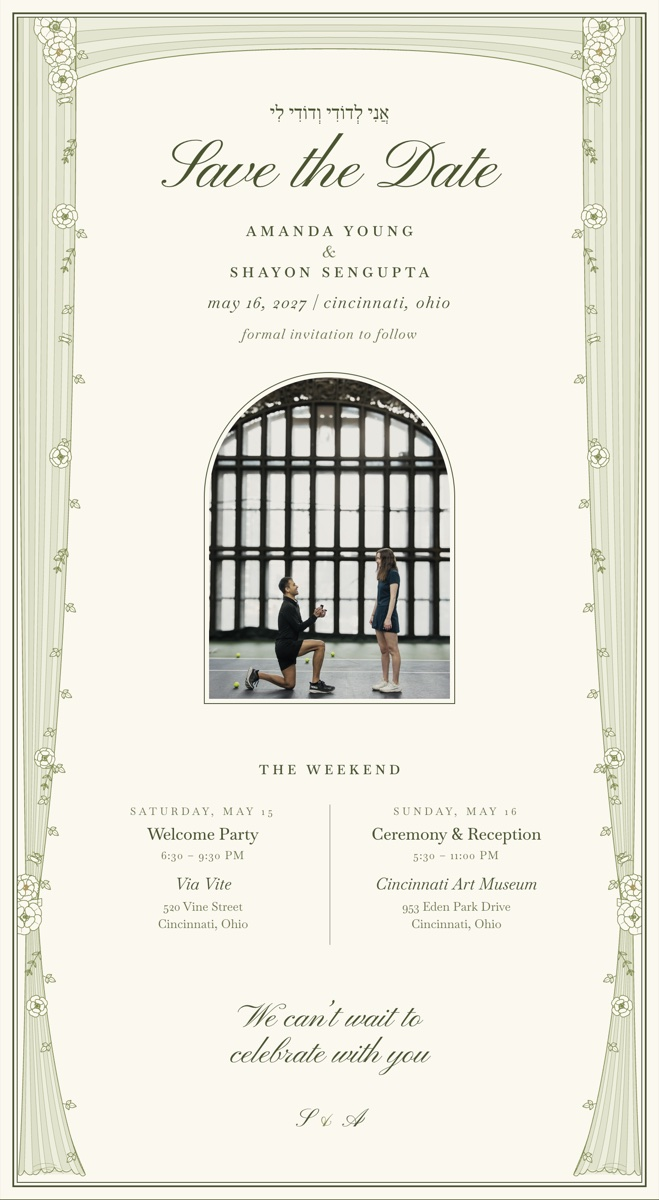
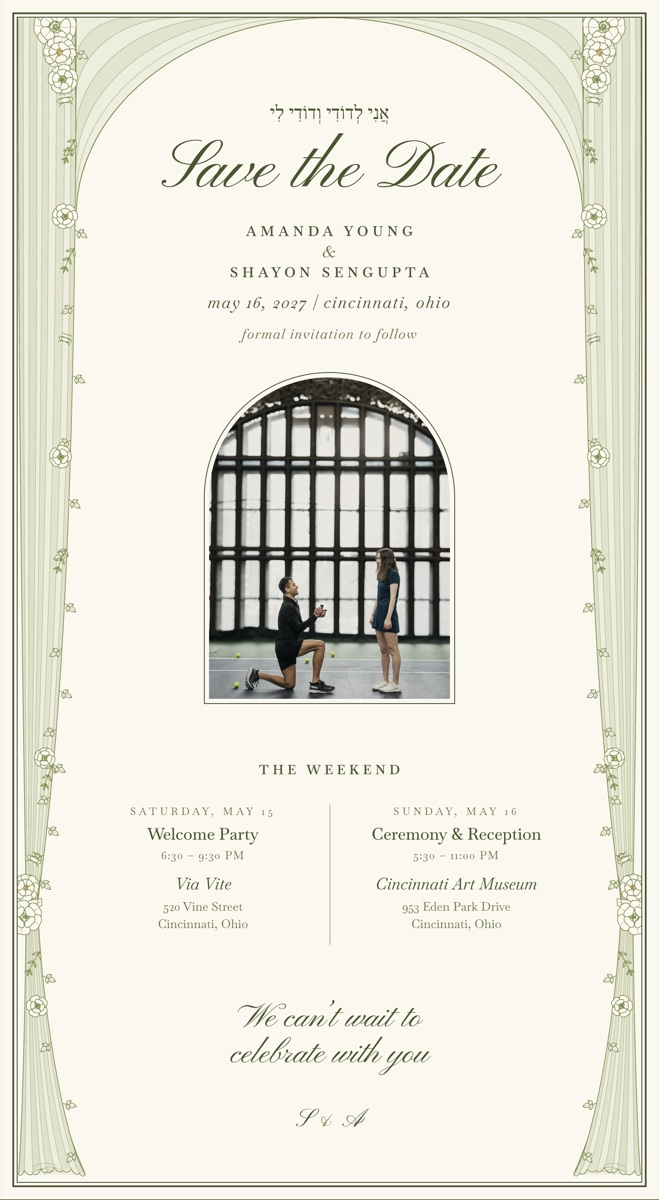
Curtains meet at the top centre in a round arch
- Replace the swag band with the curtains' own tops: from each side curtain's
  inner edge the fabric sweeps in to meet at the top centre (as in the
  satin-drapery reference), leaving a round-arch opening
- script.js spans it exactly between the curtains' inner edges at any size
- Re-render share images

Changed region(s): [[0.091, 0.0, 0.9105, 0.1542]]

diff --git a/index.html b/index.html
@@ -13,19 +13,19 @@
 <meta property="og:type" content="website" />
 <meta property="og:url" content="https://shayon297.github.io/save-the-date/" />
 <meta property="og:site_name" content="Shayon &amp; Amanda" />
-<meta property="og:image" content="https://shayon297.github.io/save-the-date/assets/og.jpg?v=9" />
+<meta property="og:image" content="https://shayon297.github.io/save-the-date/assets/og.jpg?v=10" />
 <meta property="og:image:width" content="1200" />
 <meta property="og:image:height" content="630" />
 <meta property="og:image:alt" content="Save the Date — Shayon Sengupta and Amanda Young, May 16, 2027, Cincinnati, Ohio. Formal invitation to follow." />
 <meta name="twitter:card" content="summary_large_image" />
 <meta name="twitter:title" content="Save the Date — Shayon &amp; Amanda" />
 <meta name="twitter:description" content="Sunday, May 16, 2027 · Cincinnati Art Museum · Cincinnati, Ohio" />
-<meta name="twitter:image" content="https://shayon297.github.io/save-the-date/assets/og.jpg?v=9" />
+<meta name="twitter:image" content="https://shayon297.github.io/save-the-date/assets/og.jpg?v=10" />
 
 <link rel="preconnect" href="https://fonts.googleapis.com">
 <link rel="preconnect" href="https://fonts.gstatic.com" crossorigin>
 <link href="https://fonts.googleapis.com/css2?family=Baskervville:ital,wght@0,400;0,500;0,600;1,400&family=Frank+Ruhl+Libre:wght@400;500&family=Pinyon+Script&display=swap" rel="stylesheet">
-<link rel="stylesheet" href="styles.css?v=39" />
+<link rel="stylesheet" href="styles.css?v=41" />
 <script>
   // ?preview=email / ?preview=og switch the page into fixed layouts used to render the share images
   var pv = new URLSearchParams(location.search).get("preview");
@@ -180,6 +180,6 @@
   </article>
 </main>
 
-<script src="script.js?v=13"></script>
+<script src="script.js?v=14"></script>
 </body>
 </html>

diff --git a/styles.css b/styles.css
@@ -150,16 +150,18 @@ body{
   display: block;
   pointer-events: none;
 }
-/* swag across the top joining the two drapes (assets/swag.svg stretches to the card width) */
+/* the curtains' tops, sweeping in to meet at the centre (assets/swag.svg). It spans exactly
+   between the side curtains' inner edges: script.js measures those into --drape-in. */
 .swag{
   position: absolute;
-  top: var(--hang); left: var(--hang); right: var(--hang);
-  width: calc(100% - 2 * var(--hang));
-  height: 120px;            /* full depth at the sides; the middle dips to ~0.3 of this */
+  top: var(--hang);
+  left: calc(var(--hang) + var(--drape-in, 90px));
+  width: calc(100% - 2 * (var(--hang) + var(--drape-in, 90px)));   /* an img ignores right: set the width */
+  height: 230px;            /* where the arch meets the side curtains */
   z-index: 0;
   pointer-events: none;
 }
-@media (max-width: 480px){ .swag{ height: 70px; } }
+@media (max-width: 480px){ .swag{ height: 74px; } }
 .drape-left{ left: var(--hang); }
 .drape-right{ right: var(--hang); transform: scaleX(-1); }
 .drape-side img{ display: block; height: 100%; width: auto; }

diff --git a/script.js b/script.js
@@ -24,6 +24,21 @@
   tick();
   setInterval(tick, 60000);
 
+  // ---- curtain tops: span the swag between the side curtains' inner edges ----
+  // The drapes keep their proportions, so their width follows the card's height.
+  // Their fabric's inner edge sits at a fixed fraction of the image width (see tools-flora.py).
+  var drapeImg = document.querySelector(".drape-left img");
+  var card = document.querySelector(".card");
+  function fitSwag() {
+    if (!drapeImg || !card) return;
+    var narrow = (drapeImg.currentSrc || drapeImg.src).indexOf("narrow") !== -1;
+    var edge = narrow ? 46.5 / 84 : 86.5 / 160;
+    card.style.setProperty("--drape-in", (drapeImg.getBoundingClientRect().width * edge) + "px");
+  }
+  if (drapeImg) drapeImg.addEventListener("load", fitSwag);
+  window.addEventListener("resize", fitSwag);
+  fitSwag();
+
   // ---- add-to-calendar ----
   // Each button reveals two links: a static .ics file (assets/*.ics; iPhone and Mac open it
   // straight into Calendar, Outlook imports it) and a Google Calendar link (Android, Gmail).

diff --git a/email.html b/email.html
@@ -22,7 +22,7 @@
         <tr>
           <td align="center" style="padding:0;">
             <a href="https://shayon297.github.io/save-the-date/" style="text-decoration:none;">
-              <img src="https://shayon297.github.io/save-the-date/assets/card-email.jpg?v=7" width="600" alt="Save the Date — Shayon Sengupta and Amanda Young, Sunday, May 16, 2027, Cincinnati Art Museum" style="display:block;width:100%;max-width:600px;height:auto;border:0;box-shadow:0 18px 40px -22px rgba(0,0,0,0.45);" />
+              <img src="https://shayon297.github.io/save-the-date/assets/card-email.jpg?v=8" width="600" alt="Save the Date — Shayon Sengupta and Amanda Young, Sunday, May 16, 2027, Cincinnati Art Museum" style="display:block;width:100%;max-width:600px;height:auto;border:0;box-shadow:0 18px 40px -22px rgba(0,0,0,0.45);" />
             </a>
           </td>
         </tr>

diff --git a/tools-flora.py b/tools-flora.py
@@ -532,35 +532,43 @@ def tall_drape(W, H, w, tie_frac, hem_pad, k, seed):
 
 
 def swag(W=1000, H=100):
-    """One fabric swag across the top of the card, joining the two drapes: shallow in
-    the middle, curving down at each side into the curtains, like the top of a
-    theatre curtain. Nested folds follow the same curve. Stretched to the card's
-    width (preserveAspectRatio none; strokes don't scale)."""
+    """The top of the two curtains: from each side curtain's inner edge the fabric
+    sweeps up and across to meet the other at the top centre, so the opening between
+    them is a round arch (as in the satin-drapery reference). Folds are nested arches
+    pulled toward each corner. Spans exactly between the side curtains' inner edges
+    (script.js sets that) and stretches to fit (preserveAspectRatio none)."""
     F = Flora(11)
+    K = 0.5523                            # cubic approximation of a quarter ellipse
+    cx = W / 2
 
-    def edge(side_y, mid_y):
-        """Bottom edge from the left side down at side_y, rising to mid_y in the middle."""
-        return (f"M0 {f(side_y)}C{f(W * 0.07)} {f(mid_y + (side_y - mid_y) * 0.25)} {f(W * 0.22)} {f(mid_y)} {f(W / 2)} {f(mid_y)}"
-                f"C{f(W * 0.78)} {f(mid_y)} {f(W * 0.93)} {f(mid_y + (side_y - mid_y) * 0.25)} {f(W)} {f(side_y)}")
+    def left(k):                          # quarter arch from (k*cx, 0) down to (0, k*H)
+        a, b = k * cx, k * H
+        return f"M{f(a)} 0C{f(a * (1 - K))} 0 0 {f(b * (1 - K))} 0 {f(b)}"
 
-    hem_side, hem_mid = H, H * 0.3
-    # fabric: top edge, down the right side, then the hem traced right to left
-    F.path(f"M0 0L{f(W)} 0L{f(W)} {f(hem_side)}" + _reverse_edge(W, hem_side, hem_mid) + "Z", "fab")
-    folds = [(0.22, 0.07), (0.42, 0.13), (0.62, 0.19), (0.82, 0.25)]   # (depth at the sides, depth in the middle) / H
-    for j, (sd, md) in enumerate(folds):
-        if j % 2 == 0:                    # shade alternate bands
-            nd, nm = (folds[j + 1] if j + 1 < len(folds) else (1.0, 0.3))
-            F.path(edge(sd * H, md * H) + f"L{f(W)} {f(nd * H)}" + _reverse_edge(W, nd * H, nm * H) + "Z", "fabd")
-        F.path(edge(sd * H, md * H), "d2")
-    F.path(edge(hem_side, hem_mid), "d")
+    def right(k):                         # mirror image, from (W - k*cx, 0) down to (W, k*H)
+        a, b = k * cx, k * H
+        return f"M{f(W - a)} 0C{f(W - a * (1 - K))} 0 {f(W)} {f(b * (1 - K))} {f(W)} {f(b)}"
+
+    # fabric: everything above the arch whose apex is the top centre
+    F.path(f"M0 0L{f(W)} 0L{f(W)} {f(H)}C{f(W)} {f(H * (1 - K))} {f(cx + cx * K)} 0 {f(cx)} 0"
+           f"C{f(cx - cx * K)} 0 0 {f(H * (1 - K))} 0 {f(H)}Z", "fab")
+    ks = [0.22, 0.4, 0.58, 0.76, 0.9]
+    for i in range(0, len(ks) - 1, 2):    # shade alternate bands
+        k0, k1 = ks[i], ks[i + 1]
+        for side, fn in ((1, left), (-1, right)):
+            a0, b0, a1, b1 = k0 * cx, k0 * H, k1 * cx, k1 * H
+            if side == 1:
+                d = (f"M{f(a0)} 0C{f(a0 * (1 - K))} 0 0 {f(b0 * (1 - K))} 0 {f(b0)}L0 {f(b1)}"
+                     f"C0 {f(b1 * (1 - K))} {f(a1 * (1 - K))} 0 {f(a1)} 0Z")
+            else:
+                d = (f"M{f(W - a0)} 0C{f(W - a0 * (1 - K))} 0 {f(W)} {f(b0 * (1 - K))} {f(W)} {f(b0)}L{f(W)} {f(b1)}"
+                     f"C{f(W)} {f(b1 * (1 - K))} {f(W - a1 * (1 - K))} 0 {f(W - a1)} 0Z")
+            F.path(d, "fabd")
+    for k in ks:
+        F.path(left(k), "d2"); F.path(right(k), "d2")
+    F.path(left(1.0), "d"); F.path(right(1.0), "d")   # the arch's edge
     doc = svg_doc(F, W, H).replace('<svg ', '<svg preserveAspectRatio="none" ', 1)
     return doc.replace("<style>", "<style>path{vector-effect:non-scaling-stroke}", 1)
-
-
-def _reverse_edge(W, side_y, mid_y):
-    """swag()'s bottom edge traced right to left (continuing a path from its right end)."""
-    return (f"C{f(W * 0.93)} {f(mid_y + (side_y - mid_y) * 0.25)} {f(W * 0.78)} {f(mid_y)} {f(W / 2)} {f(mid_y)}"
-            f"C{f(W * 0.22)} {f(mid_y)} {f(W * 0.07)} {f(mid_y + (side_y - mid_y) * 0.25)} 0 {f(side_y)}")
 
 
 if __name__ == "__main__":

diff --git a/CLAUDE.md b/CLAUDE.md
@@ -16,7 +16,7 @@ Sunday, May 16, 2027 at the Cincinnati Art Museum.
 | `assets/welcome-party.ics`, `assets/wedding.ics` | Calendar files for Apple / Outlook. Keep in sync with `EVENTS` in `script.js` |
 | `tools-flora.py` | Draws the drapes and flowers. Run `python3 tools-flora.py assets` to regenerate them |
 | `assets/drape-wide.svg`, `assets/drape-narrow.svg` | Generated drapes (desktop / phone and tablet). Don't hand-edit; change `tools-flora.py` |
-| `assets/swag.svg` | Generated swag across the top joining the drapes: shallow in the middle, curving down into the curtains at the sides (stretches to the card width) |
+| `assets/swag.svg` | Generated curtain tops: from each side curtain's inner edge the fabric sweeps in to meet at the top centre, leaving a round-arch opening. Spans between the curtains' inner edges (`--drape-in`, set in `script.js`); keep the edge fractions there in sync with `tall_drape()` |
 | `assets/engagement.jpg` | Engagement photo in the arched frame under the header (the figure hides itself if the file is missing) |
 | `assets/og.jpg` | Link preview (1200×630), rendered from the page with `?preview=og` |
 | `assets/card-email.jpg` | Image used in `email.html`, rendered with `?preview=email` |
@@ -94,7 +94,7 @@ and a phone width (375px) before calling a change done.
   roses as the lead, peony, laurel, olive.
 - Phones should look like a scaled-down desktop, not a different design, and
   text must not touch the drapes.
-- Tried and rejected: a knot and hanging tail at the centre of the swag; literal classical motifs (Cinzel inscription capitals,
+- Tried and rejected: a separate swag band across the top (scalloped, or a shallow arch) and a knot with a hanging tail at its centre; literal classical motifs (Cinzel inscription capitals,
   Greek-key dividers, a laurel wreath around the monogram, Roman-numeral date),
   pinstripe borders, all-over flower patterns, extra frames
   competing with the drapes, flowers bunched at the drape ties.
